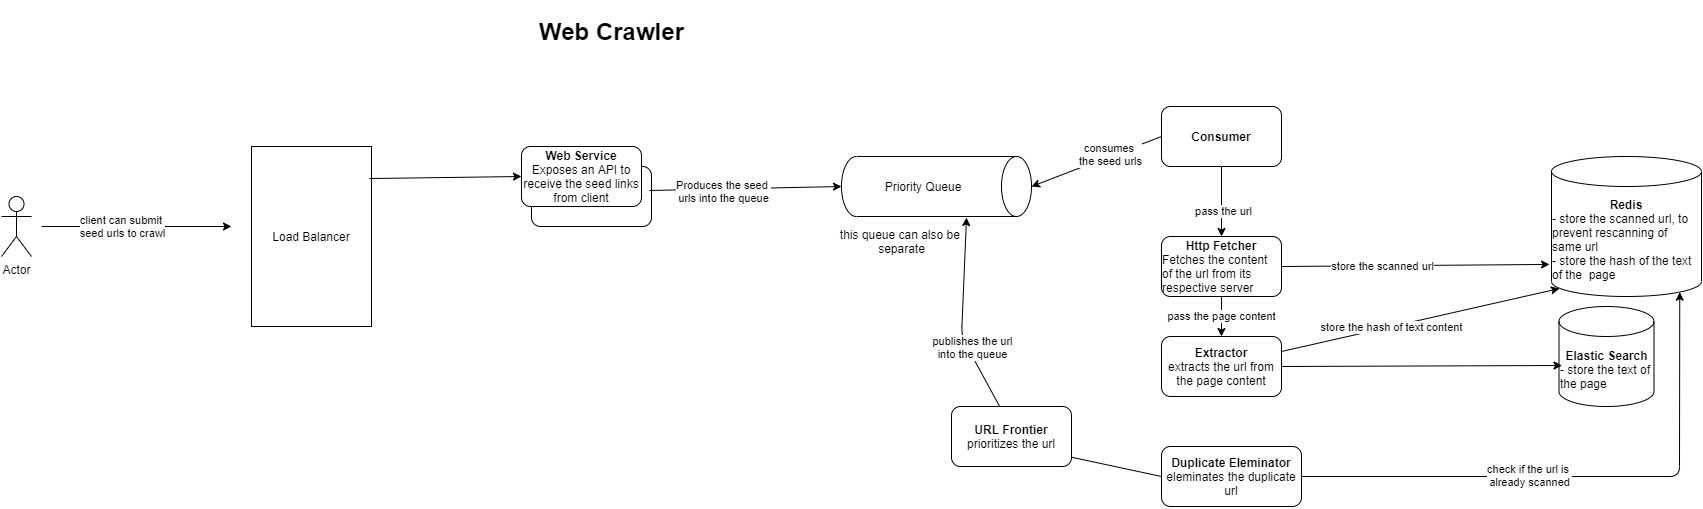
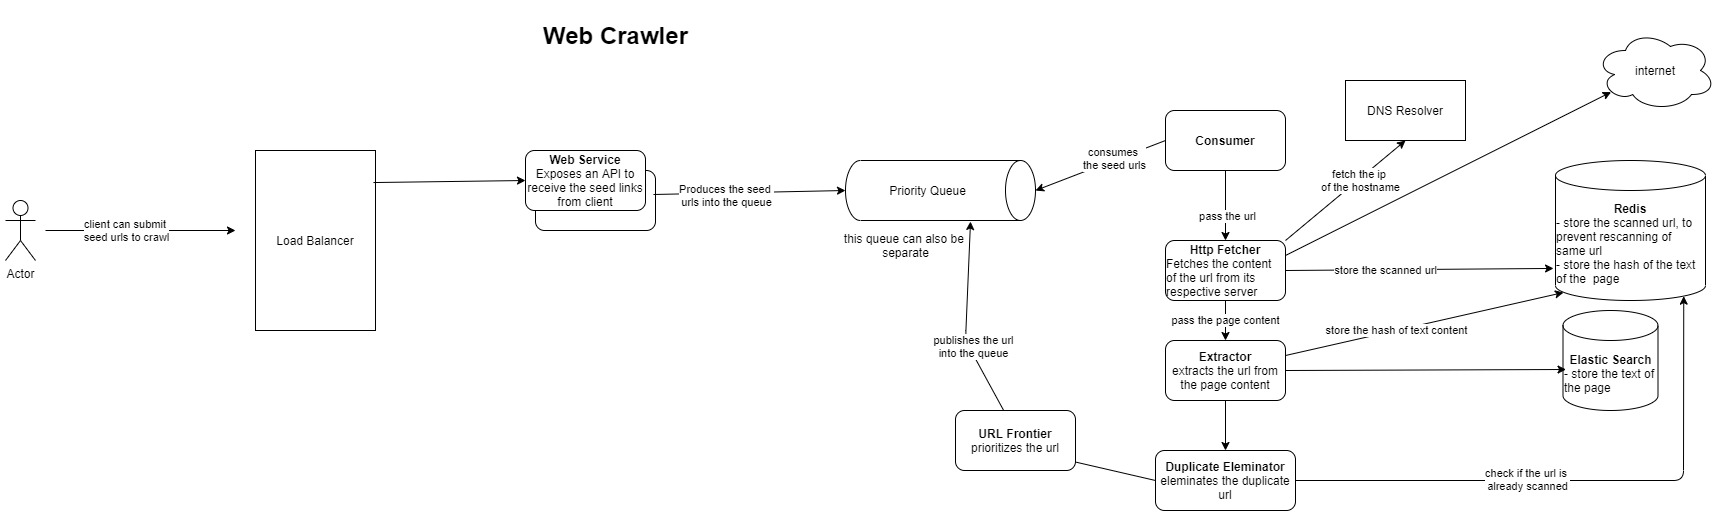
Himanshu | updated web crawler notes

diff --git a/SystemDesign/WebCrawler/WebCrawler.md b/SystemDesign/WebCrawler/WebCrawler.md
@@ -11,14 +11,24 @@
 	- prevent storing the page with same content but separate URL
 6) Crawls the new found links
 
+**Uses of Web Crawler**
+- Search Engine
+- Copy write violation detection
+- Web Malware detection
+- 
 
 ## NFR
 - 
 
 ## Estimation
-- Database
+Assumption
+- 900M registered websites in the internet
+- 60% are functional : 500M
+- Every page has link to 100 internal pages : TOtal : 500M * 100 = 50B pages
 
-- Bandwidth
+**Database**
+
+**Bandwidth**
 
 ## Solution 1
 
